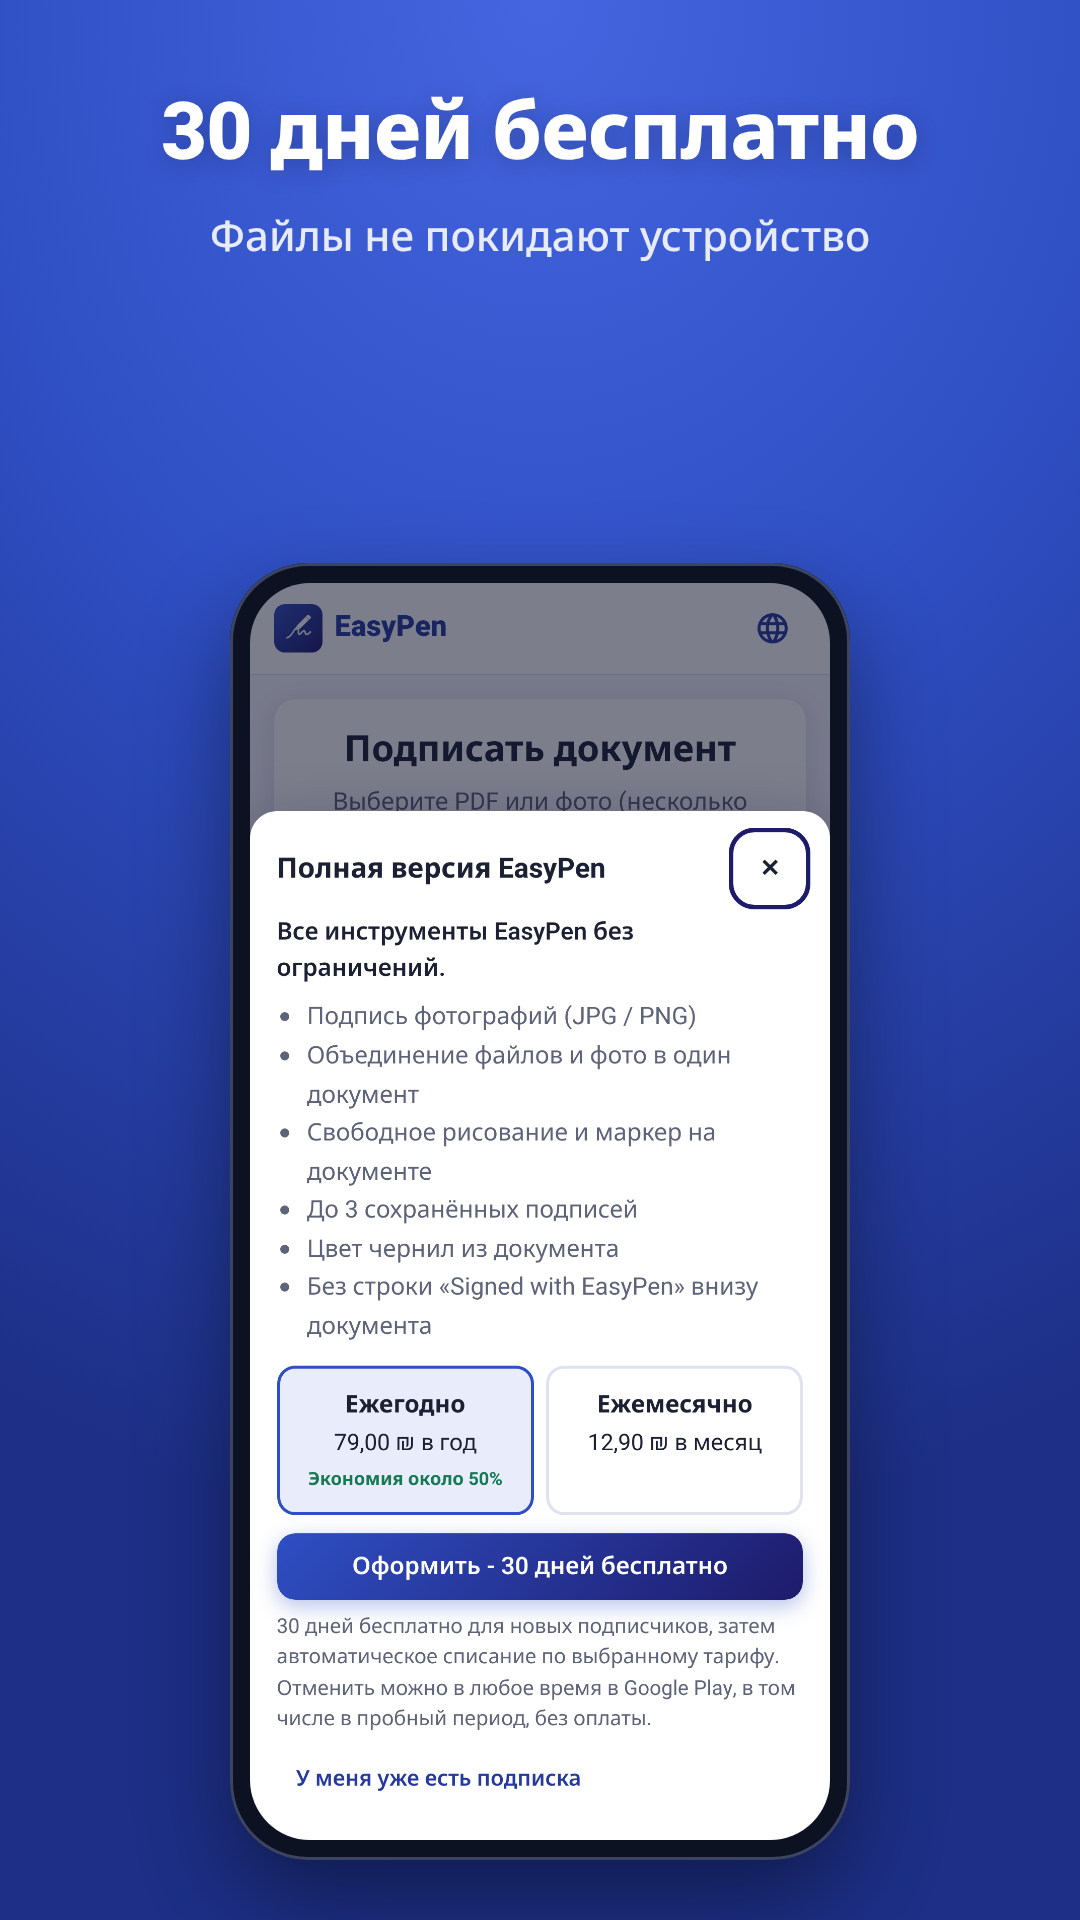
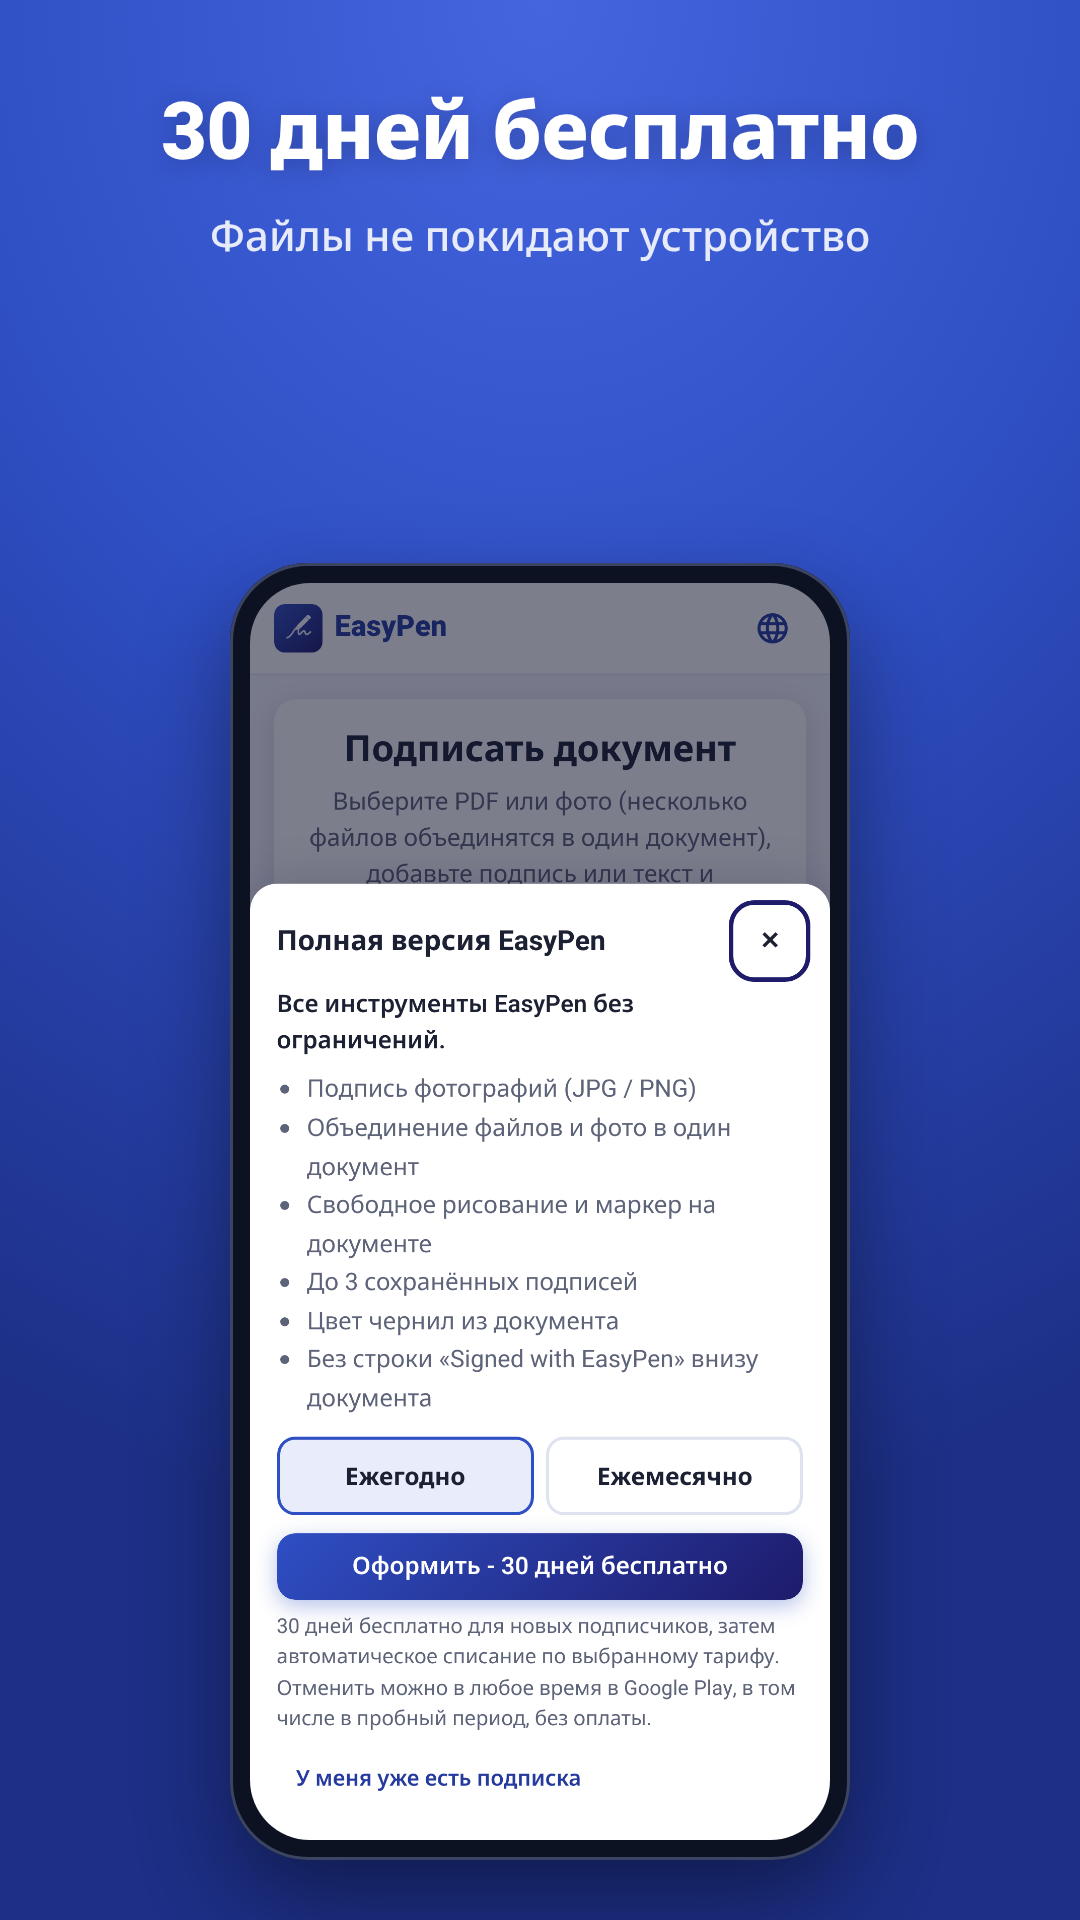
fix: no prices in the store screenshots
Claude-Session: https://claude.ai/code/session_01Mhj6nvDbNVtqm6abZ1iwxp

Changed region(s): [[0.2139, 0.4062, 0.7944, 0.7812]]

diff --git a/scripts/make-store-assets.js b/scripts/make-store-assets.js
@@ -242,6 +242,8 @@ async function captureApp(browser, server, lang) {
   await page.waitForSelector('#plan-card:not([hidden])');
   await page.evaluate(() => { window.EasyPenPlan.showPaywall(); });
   await page.waitForSelector('#paywall .paywall-plan');
+  // No prices in the store images: they may change, and Google Play shows the real ones
+  await page.addStyleTag({ content: '.paywall-plan-price, .paywall-badge { display: none !important }' });
   await shot('trial');
   await context.close();
   return shots;

diff --git a/PROJECT_STATE.md b/PROJECT_STATE.md
@@ -144,7 +144,7 @@
 - [x] `store/termux.md`: הוראות Termux (gh, keytool) לסודות; deploy-cloudflare.yml מעתיק `PLAY_SERVICE_ACCOUNT` ל-Worker
 - [ ] טביעות אצבע SHA-256 → `worker/assetlinks.mjs`
 - [ ] בדיקה בטלפון עם License tester: רכישה, ניסיון, ביטול, שחזור, שיתוף קובץ אל האפליקציה
-- [x] צילומי מסך (6, 1080×1920) + Feature graphic (1024×500) לכל שפה ב-`store/graphics/<lang>/`, מהאפליקציה האמיתית (`scripts/make-store-assets.js`, Playwright; מחירים מ-Google Play מדומה: ₪ בעברית וברוסית, $ באנגלית)
+- [x] צילומי מסך (6, 1080×1920) + Feature graphic (1024×500) לכל שפה ב-`store/graphics/<lang>/`, מהאפליקציה האמיתית (`scripts/make-store-assets.js`, Playwright). **בלי מחירים בתמונות** (החלטה 5.11.2026): מחירים עשויים להשתנות, ו-Google Play מציגה את המחיר בעצמה
 - [ ] אחרי הפרסום: `WEB_LIMITS = true` (+ גרסה)
 
 ## פתוח / לשלב הבא
